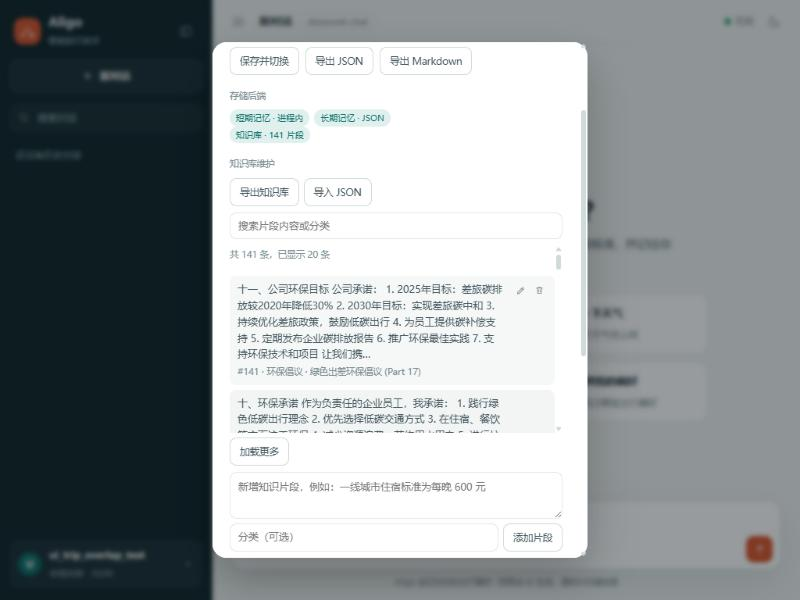
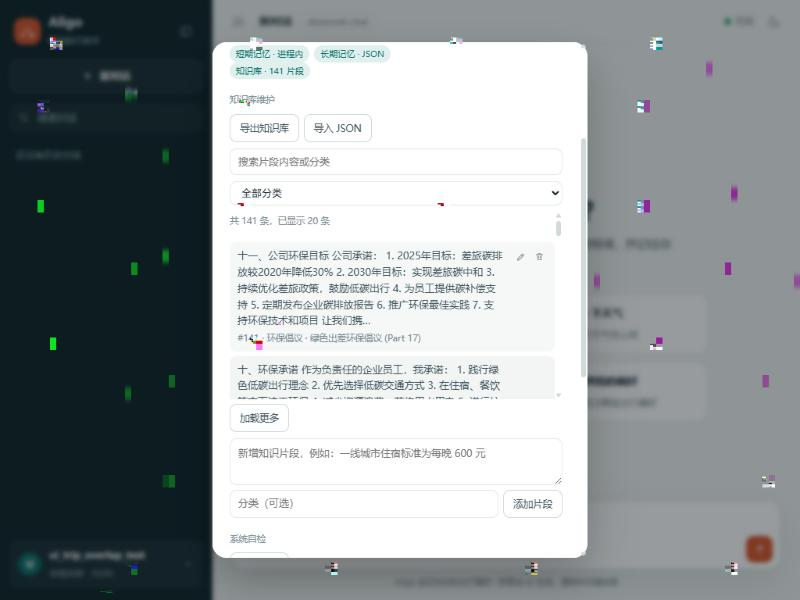
feat(knowledge): 知识库分类筛选与分类统计
- list_documents 支持 category 精确过滤；新增 list_categories 按数量倒序统计
- GET /api/knowledge/documents 支持 category；新增 GET /api/knowledge/categories
- 记忆面板新增分类下拉框（显示各分类片段数，可与关键词搜索组合）
- 补充单元 / 接口用例，刷新 README 知识库截图与文档

diff --git a/webapp/static/app.js b/webapp/static/app.js
@@ -53,6 +53,7 @@ const state = {
   kbItems: [],
   kbTotal: 0,
   kbQuery: "",
+  kbCategory: "",
   kbDeleting: new Set(),
   kbImporting: false,
   kbEditingId: null,
@@ -145,6 +146,7 @@ const els = {
   knowledgeChip: byId("knowledgeChip"),
   kbList: byId("kbList"),
   kbSearch: byId("kbSearch"),
+  kbCategoryFilter: byId("kbCategoryFilter"),
   kbMore: byId("kbMore"),
   kbImport: byId("kbImport"),
   kbImportFile: byId("kbImportFile"),
@@ -2392,7 +2394,40 @@ function knowledgeQueryParams(offset) {
     offset: String(offset),
   });
   if (state.kbQuery) params.set("q", state.kbQuery);
+  if (state.kbCategory) params.set("category", state.kbCategory);
   return params;
+}
+
+async function refreshKnowledgeCategories() {
+  if (!els.kbCategoryFilter) return;
+  try {
+    const data = await getJSON("/api/knowledge/categories");
+    const categories = Array.isArray(data.categories) ? data.categories : [];
+    const current = state.kbCategory;
+    els.kbCategoryFilter.innerHTML = "";
+    const all = document.createElement("option");
+    all.value = "";
+    all.textContent = "全部分类";
+    els.kbCategoryFilter.appendChild(all);
+    let found = false;
+    categories.forEach((item) => {
+      const option = document.createElement("option");
+      option.value = String(item.category);
+      option.textContent = `${item.category}（${item.count}）`;
+      if (option.value === current) found = true;
+      els.kbCategoryFilter.appendChild(option);
+    });
+    if (current && !found) {
+      // 分类在刷新间消失（刚被改名 / 删除）：保留选项避免筛选静默失效
+      const option = document.createElement("option");
+      option.value = current;
+      option.textContent = `${current}（0）`;
+      els.kbCategoryFilter.appendChild(option);
+    }
+    els.kbCategoryFilter.value = current;
+  } catch {
+    // 分类统计失败不影响片段列表
+  }
 }
 
 async function refreshKnowledgeDocuments() {
@@ -2400,6 +2435,7 @@ async function refreshKnowledgeDocuments() {
   els.kbList.textContent = "加载中…";
   state.kbItems = [];
   state.kbTotal = 0;
+  refreshKnowledgeCategories();
   try {
     const data = await getJSON(`/api/knowledge/documents?${knowledgeQueryParams(0)}`);
     state.kbTotal = Number(data.total || 0);
@@ -2852,6 +2888,10 @@ function bindEvents() {
       state.kbQuery = els.kbSearch.value.trim();
       refreshKnowledgeDocuments();
     }
+  });
+  els.kbCategoryFilter.addEventListener("change", () => {
+    state.kbCategory = els.kbCategoryFilter.value;
+    refreshKnowledgeDocuments();
   });
   els.kbMore.addEventListener("click", loadMoreKnowledgeDocuments);
   els.runDoctor.addEventListener("click", runDoctorCheck);

diff --git a/webapp/static/style.css b/webapp/static/style.css
@@ -1191,6 +1191,16 @@ mark { background: rgba(224, 85, 43, 0.2); color: inherit; border-radius: 3px; p
   color: var(--ink);
   font-size: 13px;
 }
+.kb-filter {
+  width: 100%;
+  margin-bottom: 8px;
+  padding: 6px 10px;
+  border: 1px solid var(--line);
+  border-radius: 9px;
+  background: var(--surface);
+  color: var(--ink);
+  font-size: 13px;
+}
 .kb-more { margin-top: 6px; }
 .kb-list:focus-visible { outline: 2px solid var(--accent); outline-offset: 2px; }
 

diff --git a/webapp/static/index.html b/webapp/static/index.html
@@ -273,6 +273,13 @@
           placeholder="搜索片段内容或分类"
           aria-label="搜索知识片段"
         />
+        <select
+          id="kbCategoryFilter"
+          class="kb-filter"
+          aria-label="按分类筛选知识片段"
+        >
+          <option value="">全部分类</option>
+        </select>
         <div
           class="kb-list"
           id="kbList"

diff --git a/tests/test_webapp.py b/tests/test_webapp.py
@@ -1458,23 +1458,44 @@ def test_doctor_endpoint():
 
 
 def test_knowledge_documents_api(monkeypatch):
-    """知识片段列表接口：透传分页 / 搜索参数（后端 Milvus 由假实现替代）。"""
+    """知识片段列表接口：透传分页 / 搜索 / 分类参数（后端 Milvus 由假实现替代）。"""
     from webapp import server as server_module
 
     captured = {}
 
-    def fake_list(limit, offset, query):
-        captured.update(limit=limit, offset=offset, query=query)
+    def fake_list(limit, offset, query, category=""):
+        captured.update(
+            limit=limit, offset=offset, query=query, category=category
+        )
         return {"total": 1, "items": [{"id": 7, "content": "住宿标准", "metadata": {}}]}
 
     monkeypatch.setattr(server_module, "list_documents", fake_list)
     response = _client().get(
-        "/api/knowledge/documents", params={"limit": 10, "offset": 0, "q": "住宿"}
+        "/api/knowledge/documents",
+        params={"limit": 10, "offset": 0, "q": "住宿", "category": "住宿"},
     )
     assert response.status_code == 200
     assert response.json()["items"][0]["id"] == 7
-    assert captured == {"limit": 10, "offset": 0, "query": "住宿"}
-    print("✓ /api/knowledge/documents 列表接口")
+    assert captured == {
+        "limit": 10,
+        "offset": 0,
+        "query": "住宿",
+        "category": "住宿",
+    }
+
+    def fake_categories():
+        return [{"category": "住宿", "count": 2}]
+    monkeypatch.setattr(server_module, "list_categories", fake_categories)
+    summary = _client().get("/api/knowledge/categories")
+    assert summary.status_code == 200
+    assert summary.json()["categories"] == [{"category": "住宿", "count": 2}]
+
+    def boom():
+        raise RuntimeError("collection is in state 'released'")
+
+    monkeypatch.setattr(server_module, "list_categories", boom)
+    assert _client().get("/api/knowledge/categories").status_code == 503
+    print("✓ /api/knowledge/documents 列表接口（分页 / 搜索 / 分类）与分类统计")
 
 
 def test_knowledge_document_write_api(monkeypatch):

diff --git a/webapp/server.py b/webapp/server.py
@@ -55,6 +55,7 @@ from utils.knowledge_admin import (
     delete_document,
     export_documents,
     import_documents,
+    list_categories,
     list_documents,
     update_document,
 )
@@ -830,10 +831,11 @@ def create_app(model: Any = None) -> FastAPI:
         limit: int = Query(default=20, ge=1, le=100),
         offset: int = Query(default=0, ge=0),
         q: str = Query(default="", max_length=100),
+        category: str = Query(default="", max_length=20),
     ) -> dict[str, Any]:
         """列出知识片段（记忆面板的知识库维护）。"""
         try:
-            return list_documents(limit=limit, offset=offset, query=q)
+            return list_documents(limit=limit, offset=offset, query=q, category=category)
         except FileNotFoundError as exc:
             raise HTTPException(
                 status_code=503,
@@ -841,6 +843,17 @@ def create_app(model: Any = None) -> FastAPI:
             ) from exc
         except Exception as exc:  # noqa: BLE001 - 统一转为 503，避免泄露内部堆栈
             logger.warning("列出知识片段失败: %s", exc)
+            raise HTTPException(status_code=503, detail=f"知识库暂不可用：{exc}") from exc
+
+    @app.get("/api/knowledge/categories")
+    def knowledge_categories() -> dict[str, Any]:
+        """知识片段分类统计（维护面板筛选下拉框）。"""
+        try:
+            return {"categories": list_categories()}
+        except FileNotFoundError as exc:
+            raise HTTPException(status_code=503, detail=f"{exc}（先运行初始化脚本）") from exc
+        except Exception as exc:  # noqa: BLE001 - 统一转为 503
+            logger.warning("统计知识分类失败: %s", exc)
             raise HTTPException(status_code=503, detail=f"知识库暂不可用：{exc}") from exc
 
     @app.post("/api/knowledge/documents", status_code=201)

diff --git a/tests/test_knowledge_admin.py b/tests/test_knowledge_admin.py
@@ -68,7 +68,31 @@ def test_list_documents_parses_sorts_and_filters(monkeypatch):
     filtered = knowledge_admin.list_documents(query="住宿")
     assert filtered["total"] == 1
     assert filtered["items"][0]["id"] == 3
-    print("✓ 知识片段列表（解析 / 排序 / 过滤 / 分页）")
+
+    by_category = knowledge_admin.list_documents(category="住宿")
+    assert by_category["total"] == 1
+    assert by_category["items"][0]["id"] == 3
+    assert knowledge_admin.list_documents(category="交通")["items"][0]["id"] == 1
+    assert knowledge_admin.list_documents(category="不存在")["total"] == 0
+    print("✓ 知识片段列表（解析 / 排序 / 过滤 / 分类 / 分页）")
+
+
+def test_list_categories_counts(monkeypatch):
+    rows = [
+        {"id": 4, "content": "住宿标准 A", "metadata": '{"category": "住宿"}'},
+        {"id": 3, "content": "住宿标准 B", "metadata": '{"category": "住宿"}'},
+        {"id": 2, "content": "交通标准", "metadata": '{"category": "交通"}'},
+        {"id": 1, "content": "无分类", "metadata": "{}"},
+    ]
+    fake = _FakeMilvusClient(rows)
+    monkeypatch.setattr(knowledge_admin, "_client", lambda: fake)
+
+    categories = knowledge_admin.list_categories()
+    assert categories == [
+        {"category": "住宿", "count": 2},
+        {"category": "交通", "count": 1},
+    ], "按数量倒序，未分类不出现"
+    print("✓ 知识分类统计（按数量倒序 / 忽略未分类）")
 
 
 def test_add_document_maps_result(monkeypatch):
@@ -318,6 +342,7 @@ def test_import_chunks_large_documents(monkeypatch):
 if __name__ == "__main__":
     for case in (
         test_list_documents_parses_sorts_and_filters,
+        test_list_categories_counts,
         test_add_document_maps_result,
         test_add_document_error_raises,
         test_update_document_rewrites_content,

diff --git a/utils/knowledge_admin.py b/utils/knowledge_admin.py
@@ -76,8 +76,9 @@ def list_documents(
     limit: int = 20,
     offset: int = 0,
     query: str = "",
+    category: str = "",
 ) -> dict[str, Any]:
-    """列出知识片段（按 id 倒序，可按内容 / 元数据过滤）。
+    """列出知识片段（按 id 倒序，可按内容 / 元数据 / 分类过滤）。
 
     Returns:
         {"total": int, "items": [{"id", "content", "metadata"}]}
@@ -114,10 +115,32 @@ def list_documents(
             or needle in json.dumps(doc["metadata"], ensure_ascii=False).lower()
         ]
 
+    wanted_category = category.strip()
+    if wanted_category:
+        documents = [
+            doc
+            for doc in documents
+            if str(doc["metadata"].get("category", "")).strip() == wanted_category
+        ]
+
     total = len(documents)
     start = max(0, int(offset))
     size = max(0, int(limit))
     return {"total": total, "items": documents[start : start + size]}
+
+
+def list_categories() -> list[dict[str, Any]]:
+    """统计知识片段的分类分布（供维护面板的筛选下拉框使用）。"""
+    items = list_documents(limit=_MAX_SCAN, offset=0)["items"]
+    counts: dict[str, int] = {}
+    for item in items:
+        category = str(item.get("metadata", {}).get("category", "")).strip()
+        if category:
+            counts[category] = counts.get(category, 0) + 1
+    return [
+        {"category": name, "count": count}
+        for name, count in sorted(counts.items(), key=lambda pair: (-pair[1], pair[0]))
+    ]
 
 
 def add_document(content: str, metadata: dict[str, str] | None = None) -> dict[str, Any]:

diff --git a/README.md b/README.md
@@ -20,7 +20,7 @@
 
 ![知识库维护：查看 / 新增 / 编辑 / 删除知识片段](docs/screenshots/webui-knowledge.jpg)
 
-*知识库维护：在记忆面板中查看、新增、编辑、删除 RAG 知识片段，新增 / 编辑后立即可被检索。*
+*知识库维护：在记忆面板中查看、按分类筛选、新增、编辑、删除 RAG 知识片段，新增 / 编辑后立即可被检索。*
 
 界面为 **FastAPI + 无构建前端**（原生 HTML / CSS / JS，无需 Node），支持流式执行进度、
 会话搜索 / 重命名 / 置顶、记忆与用量面板、知识库维护、深浅主题与移动端布局，启动方式见「Web 界面」小节。
@@ -43,7 +43,7 @@
 - 知识溯源：返回文档来源（`metadata` 中保留原始文档路径），并在回答中附 Top 3 参考片段
 - 进程内按数据库路径共享 Milvus Lite 客户端：多个 Web 会话 / 智能体不会重复打开同一本地库，避免文件锁冲突
 - 知识库状态：`GET /api/knowledge`、`python cli.py kb` 与 Web 记忆面板显示集合名 / 片段数，便于确认知识库是否就绪
-- 知识库维护：记忆面板可搜索 / 分页查看、新增、编辑、删除知识片段（`GET/POST/PUT/DELETE /api/knowledge/documents`），支持导出 / 导入 JSON 备份（`/api/knowledge/export` / `import`；接口单次最多 200 条，Web 导入自动分批、CLI 不限条数；重复导入同一备份会按内容跳过已有片段）；新增 / 编辑后立即可被检索，删除后再新增按最大 id 递增，不会与已有主键冲突
+- 知识库维护：记忆面板可搜索 / 分页查看、新增、编辑、删除知识片段（`GET/POST/PUT/DELETE /api/knowledge/documents`），支持按分类筛选（`category` 参数与 `/api/knowledge/categories` 统计），导出 / 导入 JSON 备份（`/api/knowledge/export` / `import`；接口单次最多 200 条，Web 导入自动分批、CLI 不限条数；重复导入同一备份会按内容跳过已有片段）；新增 / 编辑后立即可被检索，删除后再新增按最大 id 递增，不会与已有主键冲突
 - 检索评测：`python cli.py eval` 用 14 个差旅问题离线计算 hit@1/3/5 与 MRR（只检索、不调用大模型），便于调整切分策略或补充知识后回归
 
 ### ⚡ 优先级并行调度
@@ -538,9 +538,10 @@ python -m webapp.server            # 安装后也可直接执行 aligo-web
 | GET | `/api/health` | 服务版本 / 模型 / 存储后端状态 |
 | GET | `/api/knowledge` | 知识库状态（集合名 / 片段数 / 是否可用） |
 | GET | `/api/doctor` | 环境自检（`network=true` 时包含 LLM 连通性检查） |
-| GET | `/api/knowledge/documents` | 知识片段列表（`limit` / `offset` / `q`，按 id 倒序） |
+| GET | `/api/knowledge/documents` | 知识片段列表（`limit` / `offset` / `q` / `category`，按 id 倒序） |
 | POST | `/api/knowledge/documents` | 新增知识片段（`content` / `metadata`；首次调用加载嵌入模型） |
 | PUT | `/api/knowledge/documents/{id}` | 更新知识片段（内容重新向量化后覆盖原片段，不存在返回 404） |
+| GET | `/api/knowledge/categories` | 知识片段分类统计（维护面板筛选下拉框） |
 | DELETE | `/api/knowledge/documents/{id}` | 删除知识片段 |
 | GET | `/api/knowledge/export` | 导出全部知识片段为 JSON 文件（备份 / 迁移） |
 | POST | `/api/knowledge/import` | 批量导入知识片段（`documents` 数组，单次最多 200 条） |

diff --git a/CHANGELOG.md b/CHANGELOG.md
@@ -27,6 +27,7 @@
 - 知识库状态：`GET /api/knowledge`、`python cli.py kb` 与记忆面板「知识库 · N 片段」；Milvus 客户端抽到 `utils/milvus_client.py` 供 RAG Skill 与状态查询共享
 - 知识库维护：记忆面板查看 / 新增 / 删除知识片段（`GET/POST/DELETE /api/knowledge/documents`），新增后立即可检索，列表按 id 倒序显示最新片段；新增按最大 id 递增，删除后再添加不会与已有主键冲突
 - 知识片段编辑：记忆面板知识库列表新增编辑按钮，修改内容 / 分类后重新向量化并覆盖原片段（`PUT /api/knowledge/documents/{id}`，片段不存在返回 404；增删改共用写锁，避免并发覆盖）
+- 知识库分类筛选：`GET /api/knowledge/documents` 支持 `category` 参数，新增 `GET /api/knowledge/categories` 统计各分类片段数；维护面板新增分类下拉框，可与关键词搜索组合使用
 - 检索评测：`python cli.py eval` 用 14 个差旅问题离线计算 hit@1 / hit@3 / hit@5 与 MRR（只检索、不调用大模型），知识库未初始化时提示跳过，hit@5 低于 80% 退出码 1
 - 系统自检新增记忆存储检查：报告短期 / 长期记忆实际使用的后端，配置 Redis / PostgreSQL 后测试连通性，不可用时提示将回退本地默认实现
 - 系统自检：`GET /api/doctor` 返回 Python / 依赖 / 配置 / 嵌入模型 / 知识库检查结果（`network=true` 时包含 LLM 连通性），记忆面板新增「运行自检」区块
